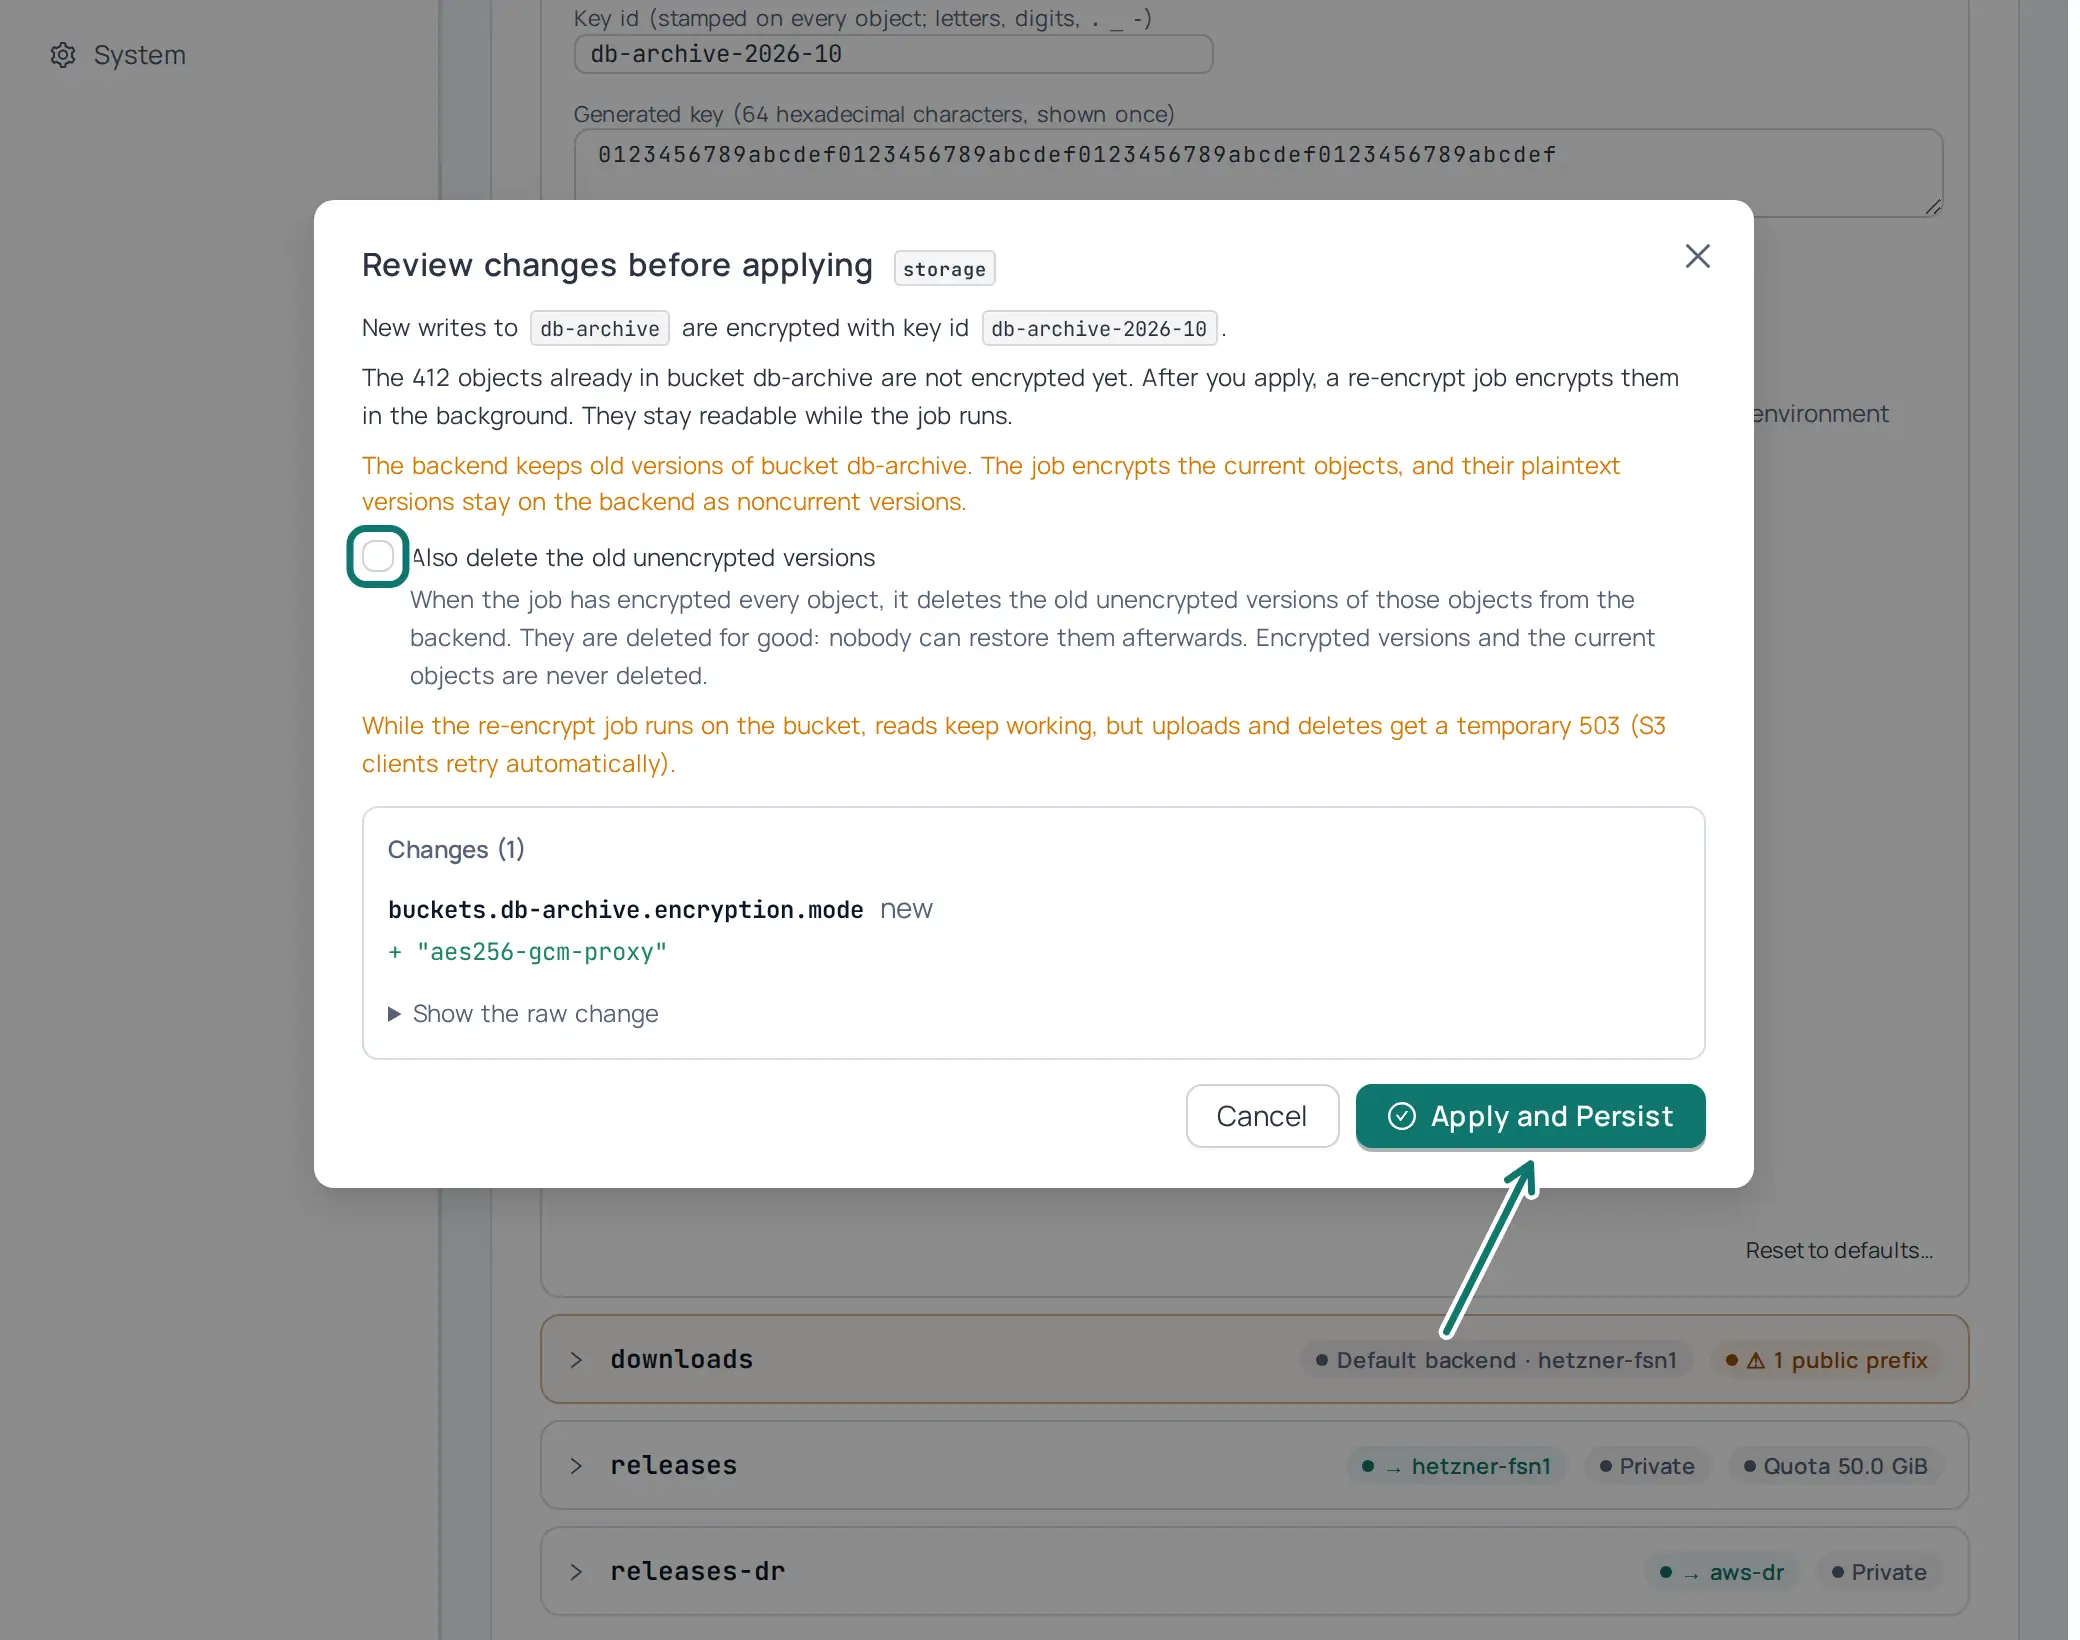
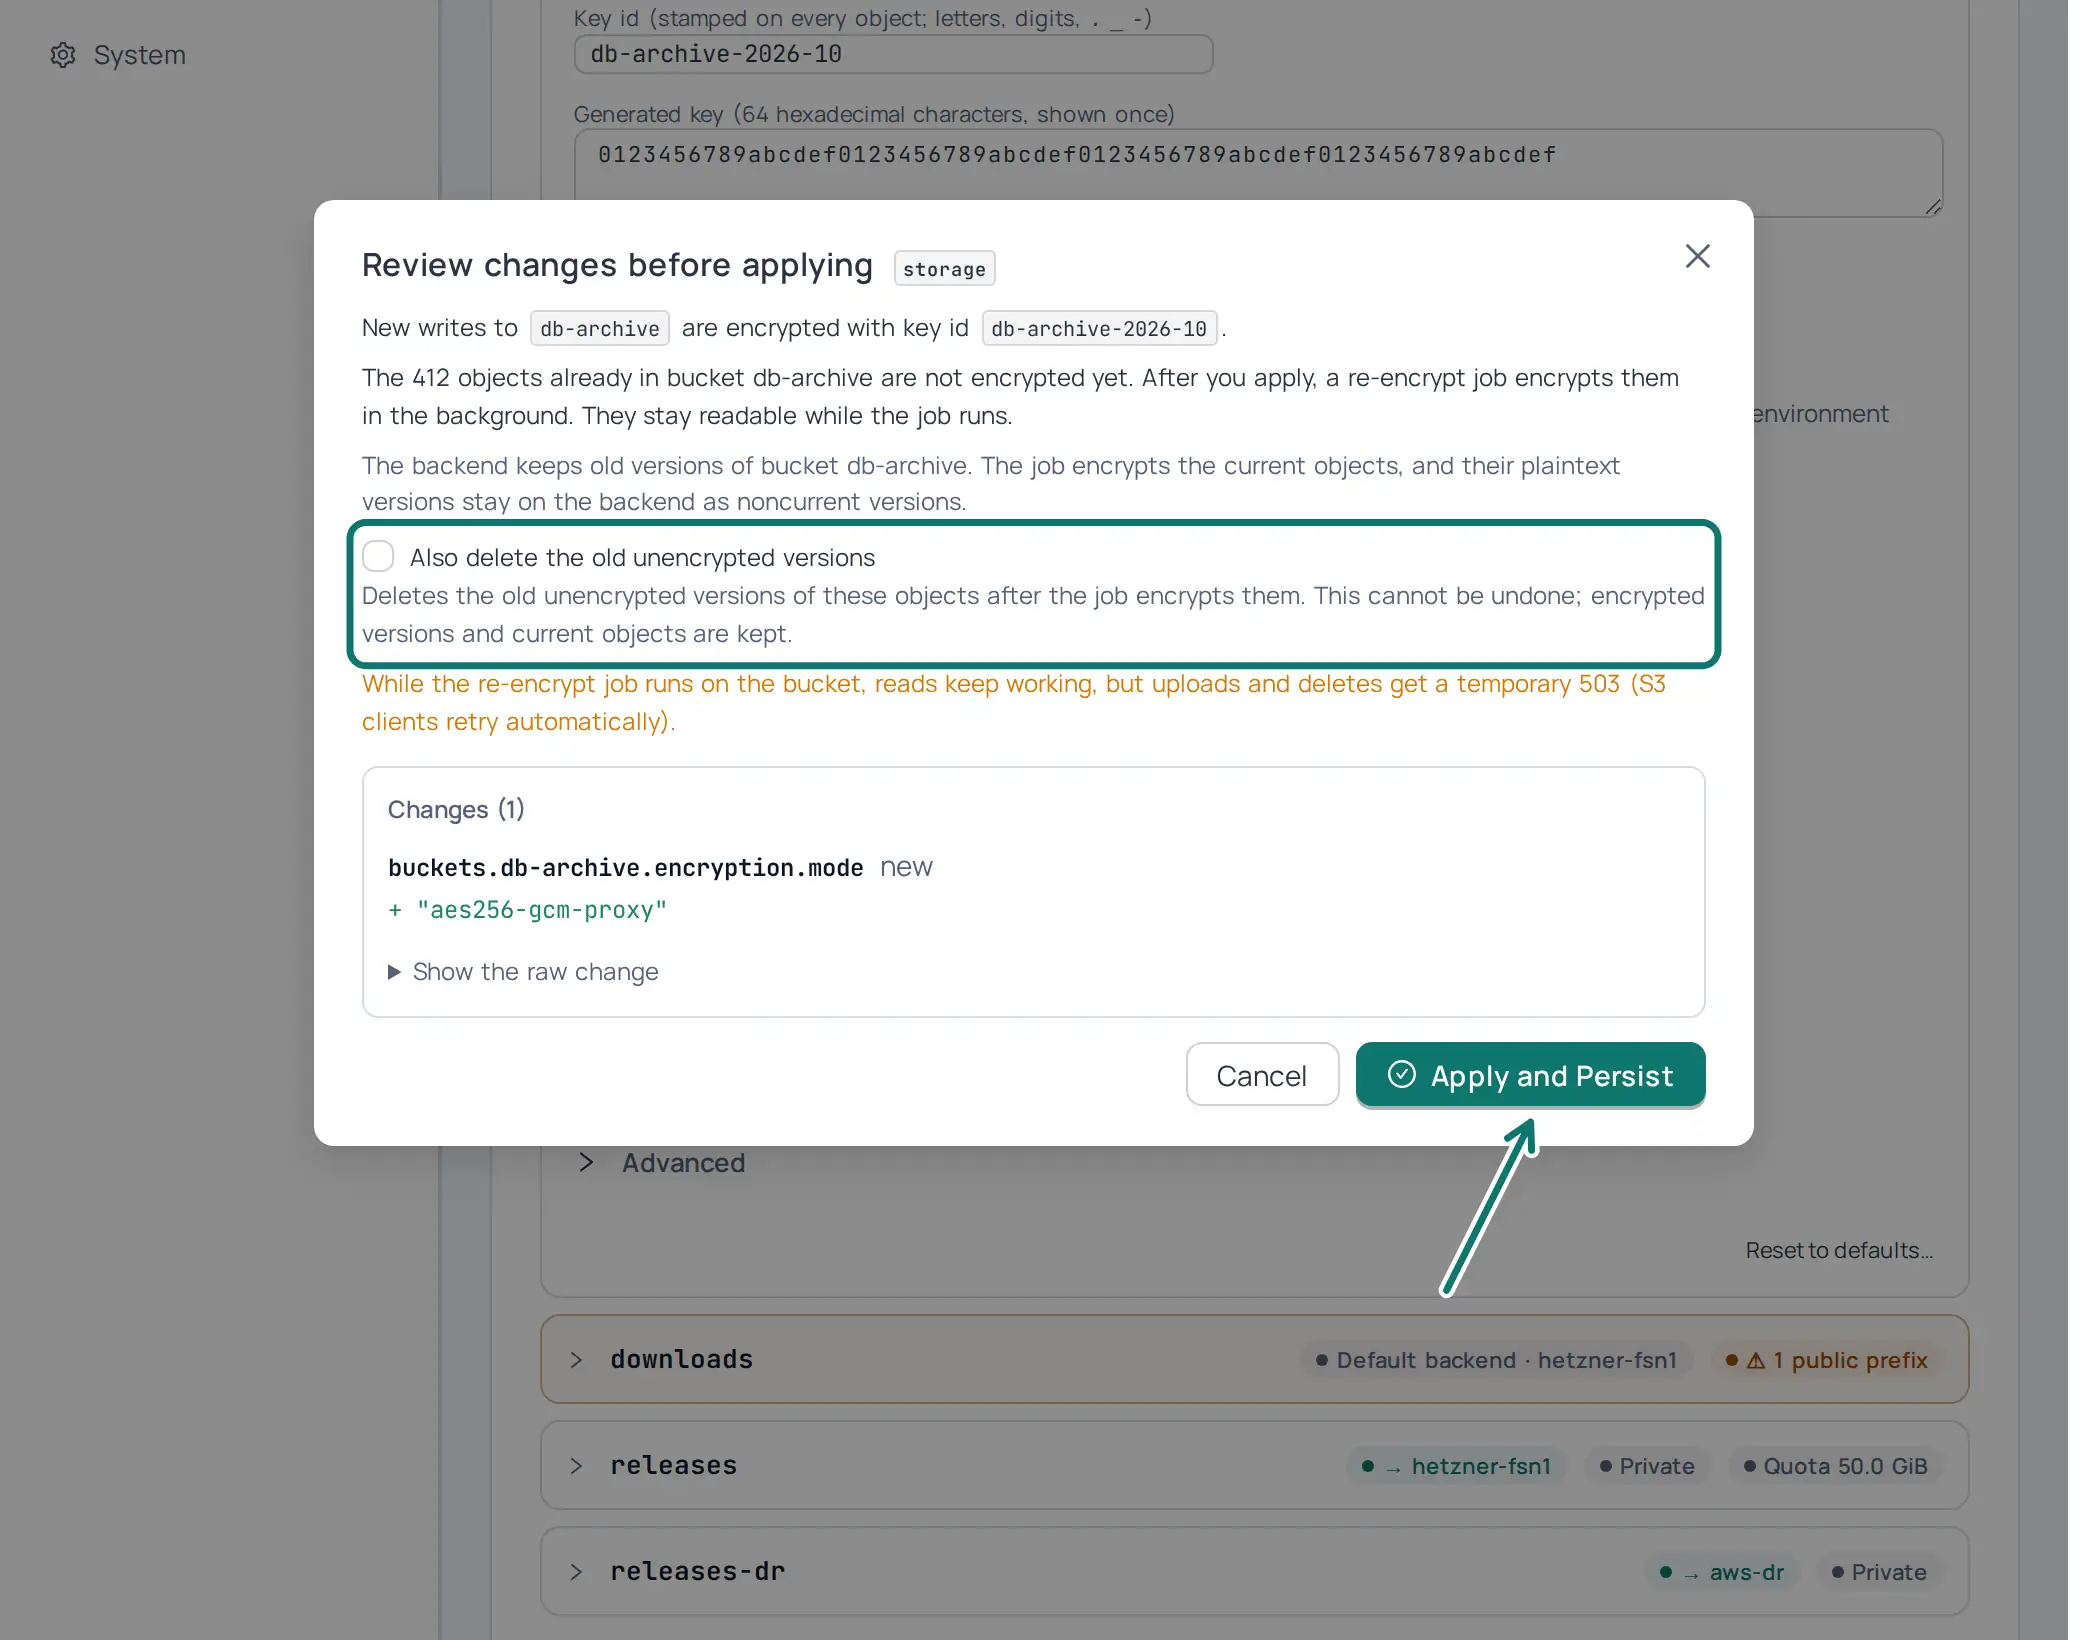
fix(ui): the purge box never takes the focus, reads calmer, and the shots match the cast
M4 visual review.

- Focus: PurgeVersionsBox never asks for the initial focus. A vitest
  mounts it and asserts it is not the active element (fails with
  autoFocus); the dialog tests assert the same. jsdom runs no dialog
  focus management, so the docs-shot setup checks it in a real browser
  and fails when the box holds the focus. The ring in the old shots was
  the annotation frame around the input, not focus.
- Layout: the label is the AntD Checkbox child (its own gap), the help a
  plain secondary line under it, no offsets; the shot frames the whole
  option instead of the bare input.
- Hierarchy: the versioned-bucket note is secondary text in both
  dialogs; only the 503 notice stays orange. Help shortened to two
  sentences.
- Shots regenerated with the docs MinIO on 127.0.0.1:19000, the
  endpoint the other backend shots show.

Changed region(s): [[0.1562, 0.2799, 0.8438, 0.622], [0.125, 0.622, 0.8438, 0.8085]]

diff --git a/demo/s3-browser/ui/src/__tests__/conversionUi.test.tsx b/demo/s3-browser/ui/src/__tests__/conversionUi.test.tsx
@@ -12,6 +12,7 @@ import { afterEach, beforeEach, expect, test, vi } from 'vitest';
 import BackendEncryptionEditor from '../components/BackendEncryptionEditor';
 import BackendsPanel from '../components/BackendsPanel';
 import BucketEncryptionGroup from '../components/BucketEncryptionGroup';
+import PurgeVersionsBox from '../components/PurgeVersionsBox';
 import type { ConversionView, EffectiveEncryption } from '../adminApi';
 import { NavigationContext } from '../NavigationContext';
 import { useBucketOrigins } from '../queries/backends';
@@ -111,9 +112,14 @@ const PURGE_HEADER = 'x-dgp-purge-plaintext-versions';
 
 test('a versioned bucket: the purge box is unchecked, and the apply asks for no purge', async () => {
   const { user, dialog } = await openBucketDialog(true);
-  const box = within(dialog).getByRole('checkbox', { name: 'Also delete the old unencrypted versions' });
+  const box = within(dialog).getByRole('checkbox', { name: /^Also delete the old unencrypted versions/ });
   expect(box).not.toBeChecked();
-  expect(dialog).toHaveTextContent(/deleted for good/);
+  // A destructive opt-in never takes the initial focus: one Space press
+  // must not tick a permanent delete.
+  expect(document.activeElement).not.toBe(box);
+  expect(dialog).toHaveTextContent(/This cannot be undone/);
+  // The versioning note is neutral; the box under it resolves it.
+  expect(within(dialog).getByTestId('conversion-versioned')).toHaveClass('ant-typography-secondary');
   await user.click(within(dialog).getByTestId('apply-dialog-confirm'));
   await waitFor(() => expect(http.callsTo('PUT', SECTION)).toHaveLength(1));
   expect(http.callsTo('PUT', SECTION)[0].headers[PURGE_HEADER]).toBeUndefined();
@@ -121,15 +127,25 @@ test('a versioned bucket: the purge box is unchecked, and the apply asks for no 
 
 test('a versioned bucket: a ticked purge box sends the purge header with the apply', async () => {
   const { user, dialog } = await openBucketDialog(true);
-  await user.click(within(dialog).getByRole('checkbox', { name: 'Also delete the old unencrypted versions' }));
+  await user.click(within(dialog).getByRole('checkbox', { name: /^Also delete the old unencrypted versions/ }));
   await user.click(within(dialog).getByTestId('apply-dialog-confirm'));
   await waitFor(() => expect(http.callsTo('PUT', SECTION)).toHaveLength(1));
   expect(http.callsTo('PUT', SECTION)[0].headers[PURGE_HEADER]).toBe('true');
 });
 
+test('the purge box never takes the focus when it mounts', () => {
+  // jsdom runs no dialog focus management, so the dialog tests above only
+  // show that focus is not on the box; this proves the box itself never
+  // asks for it (an autoFocus here fails).
+  renderWithQuery(<PurgeVersionsBox onChange={vi.fn()} />);
+  const box = screen.getByRole('checkbox', { name: /^Also delete the old unencrypted versions/ });
+  expect(box).not.toBeChecked();
+  expect(document.activeElement).not.toBe(box);
+});
+
 test('a bucket without versions offers no purge box', async () => {
   const { dialog } = await openBucketDialog(false);
-  expect(within(dialog).queryByRole('checkbox', { name: 'Also delete the old unencrypted versions' })).toBeNull();
+  expect(within(dialog).queryByRole('checkbox', { name: /^Also delete the old unencrypted versions/ })).toBeNull();
 });
 
 test('running: the progress of this node\'s job and a link to the run, no Resume', async () => {
@@ -300,8 +316,9 @@ test('a backend over a versioned bucket: the ticked purge box sends the purge he
   await user.click(screen.getByTestId('encryption-key-stored'));
   await user.click(screen.getByRole('button', { name: 'Apply encryption change' }));
   const dialog = await screen.findByRole('dialog');
-  const box = within(dialog).getByRole('checkbox', { name: 'Also delete the old unencrypted versions' });
+  const box = within(dialog).getByRole('checkbox', { name: /^Also delete the old unencrypted versions/ });
   expect(box).not.toBeChecked();
+  expect(document.activeElement).not.toBe(box);
   await user.click(box);
   await user.click(within(dialog).getByRole('button', { name: 'Encrypt' }));
   await waitFor(() => expect(http.callsTo('PUT', SECTION)).toHaveLength(1));

diff --git a/demo/s3-browser/ui/src/components/PurgeVersionsBox.tsx b/demo/s3-browser/ui/src/components/PurgeVersionsBox.tsx
@@ -6,9 +6,12 @@ const { Text } = Typography;
 
 /**
  * The box of a conversion dialog for a versioned bucket: ask the re-encrypt
- * job to delete the old unencrypted versions. Unchecked by default. Without
- * `checked`, the box keeps its own state (a confirm dialog's static content)
- * and reports each change through `onChange`.
+ * job to delete the old unencrypted versions. Unchecked by default, and
+ * never the dialog's initial focus (a Space press must not tick a
+ * permanent delete). Without `checked`, the box keeps its own state (a
+ * confirm dialog's static content) and reports each change through
+ * `onChange`. The label is the Checkbox's child (AntD's own gap); the help
+ * is a plain secondary line under it, with no offsets.
  */
 export default function PurgeVersionsBox({
   checked,
@@ -20,18 +23,18 @@ export default function PurgeVersionsBox({
   const [own, setOwn] = useState(false);
   const value = checked ?? own;
   return (
-    <div style={{ display: 'flex', flexDirection: 'column', gap: 2 }}>
+    <div data-testid="conversion-purge">
       <Checkbox
         checked={value}
-        data-testid="conversion-purge"
+        autoFocus={false}
         onChange={(e) => {
           setOwn(e.target.checked);
           onChange(e.target.checked);
         }}
       >
-        <span style={{ fontSize: 12 }}>{PURGE_LABEL}</span>
+        <Text style={{ fontSize: 12 }}>{PURGE_LABEL}</Text>
       </Checkbox>
-      <Text type="secondary" style={{ fontSize: 12, paddingLeft: 24 }}>
+      <Text type="secondary" style={{ fontSize: 12, display: 'block' }}>
         {PURGE_EXPLANATION}
       </Text>
     </div>

diff --git a/demo/s3-browser/ui/src/conversionView.ts b/demo/s3-browser/ui/src/conversionView.ts
@@ -46,7 +46,7 @@ export const PURGE_LABEL = 'Also delete the old unencrypted versions';
 
 /** What the box does, in plain words: shown under it. */
 export const PURGE_EXPLANATION =
-  'When the job has encrypted every object, it deletes the old unencrypted versions of those objects from the backend. They are deleted for good: nobody can restore them afterwards. Encrypted versions and the current objects are never deleted.';
+  'Deletes the old unencrypted versions of these objects after the job encrypts them. This cannot be undone; encrypted versions and current objects are kept.';
 
 /** Does the dialog offer the purge box? Only for a versioned bucket. */
 export function offersPurge(previews: readonly ConversionPreview[] | undefined): boolean {

diff --git a/demo/s3-browser/ui/e2e/docs-screenshots/shots/encryption.ts b/demo/s3-browser/ui/e2e/docs-screenshots/shots/encryption.ts
@@ -133,6 +133,10 @@ const KEY_MASK: Target = { css: 'textarea[readonly]' };
  * the real key).
  */
 async function exampleKeyShown(page: Page): Promise<void> {
+  // A real browser runs the dialog's focus management (jsdom does not): the
+  // destructive purge box must not hold the initial focus.
+  const focused = await page.getByTestId('conversion-purge').evaluate((el) => el.contains(document.activeElement));
+  if (focused) throw new Error('the purge box took the initial focus of the dialog');
   await page.locator('textarea[readonly]').evaluate((el) => {
     (el as HTMLTextAreaElement).value = '0123456789abcdef'.repeat(4);
   });

diff --git a/demo/s3-browser/ui/src/components/BackendsPanel.tsx b/demo/s3-browser/ui/src/components/BackendsPanel.tsx
@@ -379,7 +379,7 @@ export default function BackendsPanel({ onSessionExpired }: Props) {
               <div style={{ display: 'flex', flexDirection: 'column', gap: 8 }}>
                 <span data-testid="conversion-count">{text}</span>
                 {versionedWarnings(plan.conversion_preview).map((w) => (
-                  <Text key={w} type="warning" data-testid="conversion-versioned">
+                  <Text key={w} type="secondary" data-testid="conversion-versioned">
                     {w}
                   </Text>
                 ))}

diff --git a/demo/s3-browser/ui/src/components/BucketEncryptionGroup.tsx b/demo/s3-browser/ui/src/components/BucketEncryptionGroup.tsx
@@ -243,7 +243,7 @@ export default function BucketEncryptionGroup({ bucket, eff, blockedReason, onAp
         )
       )}
       {versioned.map((w) => (
-        <Text key={w} type="warning" style={{ fontSize: 12 }} data-testid="conversion-versioned">
+        <Text key={w} type="secondary" style={{ fontSize: 12 }} data-testid="conversion-versioned">
           {w}
         </Text>
       ))}
